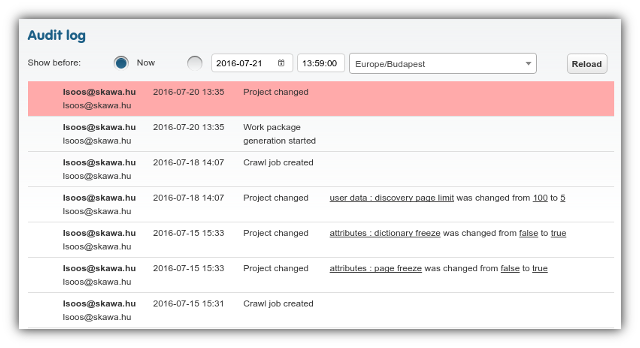
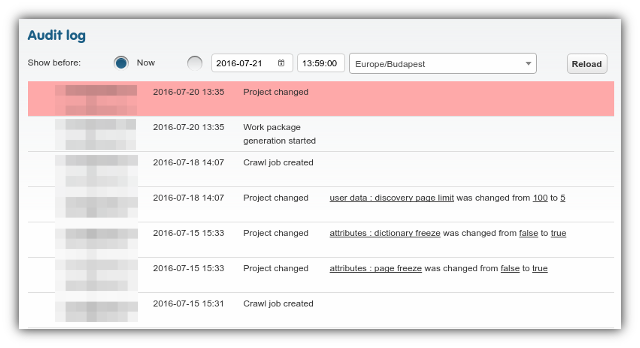
pixelize + typo fix

Changed region(s): [[0.0938, 0.2299, 0.2188, 0.7184], [0.0938, 0.7471, 0.2188, 0.9483]]

diff --git a/introduction/introduction.md b/introduction/introduction.md
@@ -46,7 +46,7 @@ business: cross-cultural communication. What's more, your translators
 don't need to learn using just another tool, they can keep using their
 own preferred CAT-tools.<br> 
 
-***Sounds good?***
+**Sounds good?**
 
 There are several challenges both business owners and language service
 providers face during website translation. The "ideal" workflow would
@@ -74,7 +74,7 @@ visitor's side.
 Data can be extracted with a couple of clicks - and the publication of
 the translated site is similarly easy.
 
-** Where are we in the localisation workflow?**
+**Where are we in the localisation workflow?**
 
 ![Workflow](../img/Easyling-workflow.png)
 
